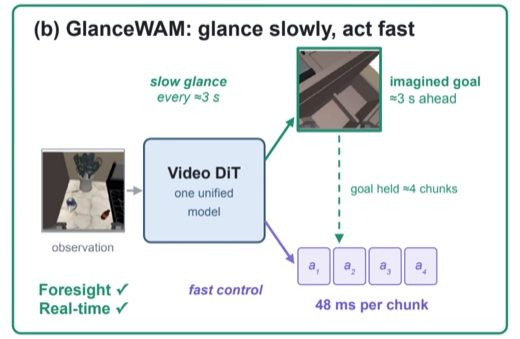
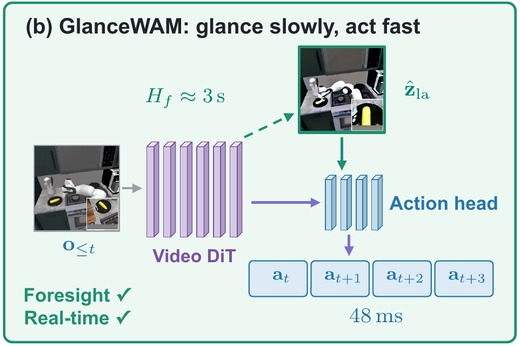
Update GlanceWAM thumbnail and link RoBoWoMo workshop

diff --git a/glancewam/index.html b/glancewam/index.html
@@ -77,6 +77,8 @@
       font-weight: 600;
       margin: 0 0 22px;
     }
+    .badge a { color: inherit; text-decoration: underline; text-underline-offset: 2px; }
+    .badge a:hover { color: var(--link-hover); }
     .buttons { display: flex; flex-wrap: wrap; justify-content: center; gap: 10px; }
     .btn {
       display: inline-flex; align-items: center; gap: 8px;
@@ -245,7 +247,7 @@
     <span><sup>4</sup>Purdue University</span>
   </p>
 
-  <div class="badge">Spotlight &amp; Honorable Mention (Best Paper Award) · RoBoWoMo Workshop @ IROS 2026</div>
+  <div class="badge">Spotlight &amp; Honorable Mention (Best Paper Award) · <a href="https://worldmodelworkshop.github.io/">RoBoWoMo Workshop @ IROS 2026</a></div>
 
   <div class="buttons">
     <a class="btn" href="https://arxiv.org/abs/2608.23927">

diff --git a/index.html b/index.html
@@ -96,7 +96,7 @@
         <div class="meta">
           <h3>GlanceWAM: Sparse Test-Time Imagination for World-Action Models</h3>
           <p class="authors"><strong>Linhan Wang</strong>, Zijian An, Mingyuan Zhang, Chen Dai, Yi Xu, Can Cui, Jiayan Wang, Zichong Yang, Yinlin Chen, Lifeng Zhou, Chang-Tien Lu</p>
-          <p class="venue">Under review, 2026 <span class="star">*</span> · RoBoWoMo Workshop @ IROS 2026, Spotlight, Honorable Mention</p>
+          <p class="venue">Under review, 2026 <span class="star">*</span> · <a href="https://worldmodelworkshop.github.io/">RoBoWoMo Workshop @ IROS 2026</a>, Spotlight, Honorable Mention</p>
           <p class="pub-links">
             <a href="glancewam/">Project page</a> /
             <a href="https://arxiv.org/abs/2608.23927">arXiv</a> /
